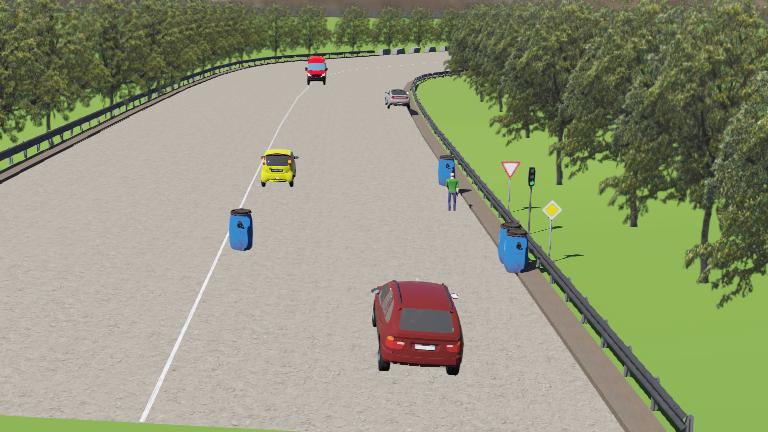
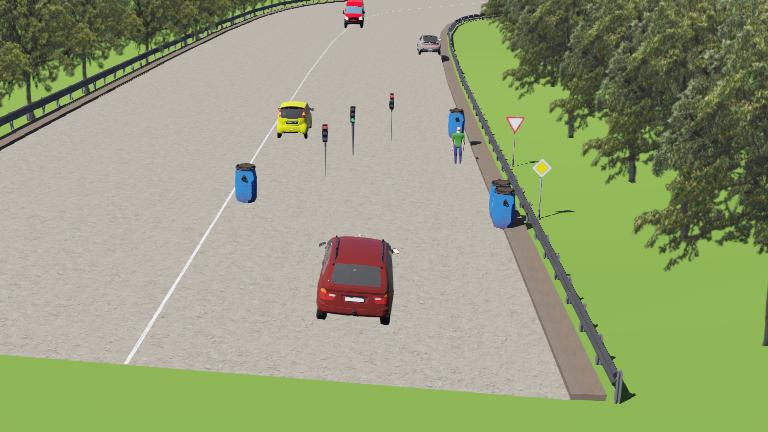
Add traffic light detection with yolo. Also fix the issue that prevented correct disabling the lane line detection model

diff --git a/simulation/webots_ros2_suv/webots_ros2_suv/workers/LaneLineDetectionWorker.py b/simulation/webots_ros2_suv/webots_ros2_suv/workers/LaneLineDetectionWorker.py
@@ -135,7 +135,7 @@ class LaneLineDetectionWorker(AbstractWorker):
                         draw_lines([world_model.ipm_colorized_lines], line_batches_bev, palette=[(0, 0, 255)], thickness=4)
                     else:
                         world_model.img_front_objects_prj_lines = image_to_draw
-                        world_model.ipm_colorized_lines = np.copy(world_model.ipm_colorized)
+                        
                     
                     world_model.img_front_objects_prj_lines = image_to_draw
 
@@ -143,4 +143,5 @@ class LaneLineDetectionWorker(AbstractWorker):
                 super().error(''.join(traceback.TracebackException.from_exception(err).format()))
         else:
             world_model.img_front_objects_prj_lines = np.copy(world_model.img_front_objects_prj)
+            world_model.ipm_colorized_lines = np.copy(world_model.ipm_colorized)
         return world_model

diff --git a/simulation/webots_ros2_suv/webots_ros2_suv/workers/IPMWorker.py b/simulation/webots_ros2_suv/webots_ros2_suv/workers/IPMWorker.py
@@ -85,7 +85,8 @@ class IPMWorker(AbstractWorker):
             
             #depths = self.__map_builder.calc_box_distance(results[0].boxes.data, image_depth)
 
-            image_seg = self.__map_builder.remove_detected_objects(image_seg, cboxes)
+            # image_seg = self.__map_builder.remove_detected_objects(image_seg, cboxes) # if you want to remove objects
+            image_seg[image_seg == 0] = 100 # if you want to left the objects (which should work better for new the yolo model)
             world_model.ipm_image = self.__map_builder.generate_ipm(image_seg, is_mono=False, need_cut=False, log=self.log)
             world_model.ipm_image = self.__map_builder.crop_ipm(world_model.ipm_image, log=self.log)
             tbs, widths = self.__map_builder.transform_boxes(cboxes)

diff --git a/simulation/webots_ros2_suv/webots_ros2_suv/workers/RoadSignDetectorWorker.py b/simulation/webots_ros2_suv/webots_ros2_suv/workers/RoadSignDetectorWorker.py
@@ -49,6 +49,8 @@ class RoadSignDetectorWorker(AbstractWorker):
             self.detector.plot_predictions(img, world_model.yolo_detected_objects, image_to_draw, update_traffic_light_state=True)
 
             world_model.img_front_objects_prj_lines_signs = image_to_draw
+
+            
             
             #world_model.traffic_light_state = "red" if self.detector.is_red else "green"
             world_model.traffic_light_state = self.detector.traffic_light_state

diff --git a/simulation/webots_ros2_suv/launch/robot_launch.py b/simulation/webots_ros2_suv/launch/robot_launch.py
@@ -173,7 +173,7 @@ def generate_launch_description():
     return LaunchDescription([
         DeclareLaunchArgument(
             'world',
-            default_value='alabuga1.wbt',
+            default_value='robocross.wbt',
             description='Robocross simulation world'
         ),
         webots,
